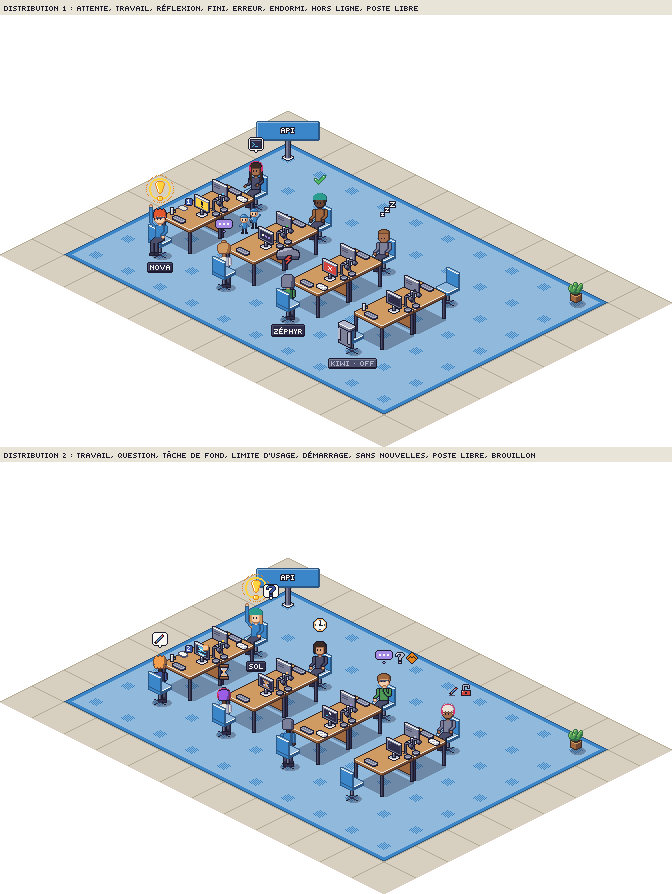
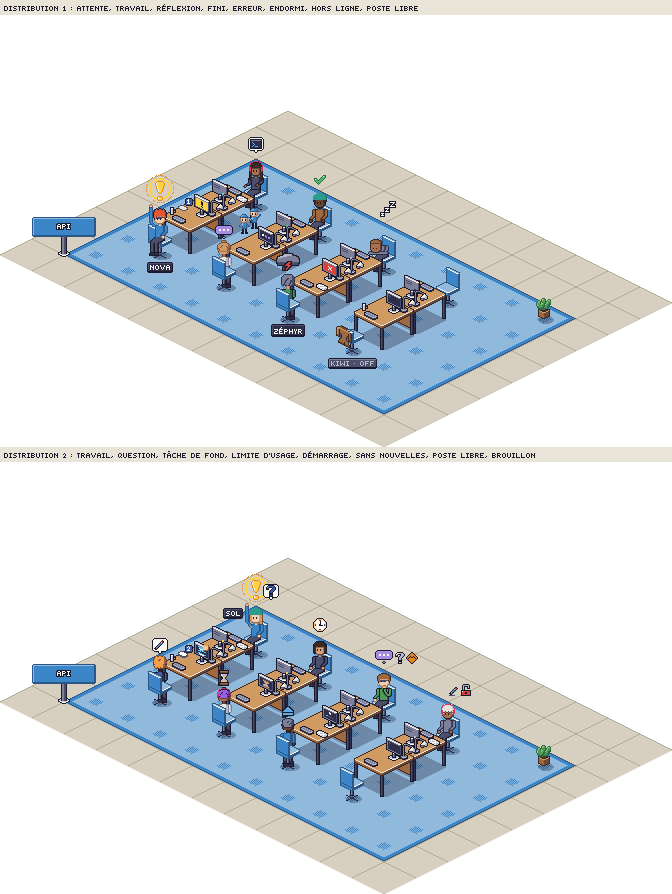
Visual milestone revision: merge fixes
Lamp pool (lots A and D): light.cone is anchored at the desk point plus
FurnitureSprites.lightConeOffset (under the lamp's base, lot A) and still
clipped to the desk-top diamond (lot D). The compositor test checks the new
anchor; lot A's preview harness now renders the compositor output directly.

Golden fingerprints regenerated after all four lots, and the milestone
images in docs/jalon-visuel re-rendered with the documented command.

diff --git a/Core/Sources/PixelCore/World/SceneCompositor.swift b/Core/Sources/PixelCore/World/SceneCompositor.swift
@@ -77,9 +77,10 @@ public enum SceneCompositor {
     static func miniOffsets(rowFacesViewer: Bool) -> [PixelPoint] {
         rowFacesViewer ? [PixelPoint(-12, -6), PixelPoint(-2, -11)] : [PixelPoint(-20, 0), PixelPoint(-10, -8)]
     }
-    /// A lamp's light pool (`light.cone`) has its anchor on the lamp's anchor (the foot of the lamp on the desk top)
-    /// and is clipped to the desk top: the iso diamond of this half-width, `IsoMath.deskTopHeight` over the desk
-    /// tile's centre (the top of `desk` spans x −30…29 around it). It never spills on the carpet.
+    /// A lamp's light pool (`light.cone`) has its anchor on the desk-top point under the lamp's base
+    /// (`FurnitureSprites.lightConeOffset`) and is clipped to the desk top: the iso diamond of this half-width,
+    /// `IsoMath.deskTopHeight` over the desk tile's centre (the top of `desk` spans x −30…29 around it). It never
+    /// spills on the carpet.
     static let deskTopHalfWidth = 30
     /// Centre of a screen's glow: in front of the screen (row A, from the screen's anchor), on the agent's side of
     /// the monitor (row B, from the monitor's anchor).
@@ -695,12 +696,13 @@ struct ScenePlanBuilder {
 
         guard options.night else { return }
         if lampLit, let def = SpriteCatalog.sprite(SpriteKey("light.cone")) {
-            // The pool lies on the desk top around the lamp: its anchor on the lamp's, clipped to the top.
-            let origin = PixelPoint(lamp.x - def.anchor.x, lamp.y - def.anchor.y)
+            // The pool lies on the desk top under the lamp's base, clipped to the top.
+            let pool = Self.plus(point, FurnitureSprites.lightConeOffset(facing: gaze))
+            let origin = PixelPoint(pool.x - def.anchor.x, pool.y - def.anchor.y)
             let deskTop = PixelPoint(point.x, point.y - IsoMath.deskTopHeight)
-            let pool = Self.clipped(def.frames[0], at: origin, toDiamondAt: deskTop,
-                                    halfWidth: SceneCompositor.deskTopHalfWidth)
-            put(name: SpriteKey("light.cone").frameName(0), key: SpriteKey("light.cone"), image: pool, origin: origin,
+            let image = Self.clipped(def.frames[0], at: origin, toDiamondAt: deskTop,
+                                     halfWidth: SceneCompositor.deskTopHalfWidth)
+            put(name: SpriteKey("light.cone").frameName(0), key: SpriteKey("light.cone"), image: image, origin: origin,
                 tile: tile, depth: depth, in: .lights)
         }
         if screen != .off {

diff --git a/Core/Tests/PixelCoreTests/SceneCompositorTests.swift b/Core/Tests/PixelCoreTests/SceneCompositorTests.swift
@@ -583,8 +583,8 @@ enum SceneFixtures {
         #expect(x1.overlays.filter { $0.key == HUDSprites.stateKey(.launching) }.count == 1)
     }
 
-    /// The lamp's pool lies on its desk top, around the lamp: the light's anchor on the lamp's, every pixel inside the
-    /// desk-top diamond, none on the carpet.
+    /// The lamp's pool lies on its desk top, under the lamp's base: the light's anchor at `lightConeOffset` from the
+    /// desk's, every pixel inside the desk-top diamond, none on the carpet.
     @Test func lampPoolStaysOnTheDeskTop() {
         let scene = Showcase.islandCasts()[0]
         let crop = Showcase.islandCrop()
@@ -596,10 +596,16 @@ enum SceneFixtures {
             let tile = cone.tile!
             let lamp = plan.world.first { $0.tile == tile && $0.key?.id == "lamp.desk" }!
             let lampDef = SpriteCatalog.sprite(lamp.key!)!
-            #expect(PixelPoint(cone.origin.x + def.anchor.x, cone.origin.y + def.anchor.y)
-                    == PixelPoint(lamp.origin.x + lampDef.anchor.x, lamp.origin.y + lampDef.anchor.y))
+            let facing = lamp.key!.facing!
             let t = SceneCompositor.imagePoint(of: tile, in: crop)
-            let top = PixelPoint(t.x, t.y + 16 - IsoMath.deskTopHeight)
+            let desk = PixelPoint(t.x, t.y + 16)
+            let lampOffset = FurnitureSprites.lampOffset(facing: facing)
+            #expect(PixelPoint(lamp.origin.x + lampDef.anchor.x, lamp.origin.y + lampDef.anchor.y)
+                    == PixelPoint(desk.x + lampOffset.x, desk.y + lampOffset.y))
+            let poolOffset = FurnitureSprites.lightConeOffset(facing: facing)
+            #expect(PixelPoint(cone.origin.x + def.anchor.x, cone.origin.y + def.anchor.y)
+                    == PixelPoint(desk.x + poolOffset.x, desk.y + poolOffset.y))
+            let top = PixelPoint(desk.x, desk.y - IsoMath.deskTopHeight)
             var inside = 0
             for y in 0..<cone.image.height {
                 for x in 0..<cone.image.width where cone.image[x, y].a != 0 {

diff --git a/Core/Tests/PixelCoreTests/FurnitureSpriteTests.swift b/Core/Tests/PixelCoreTests/FurnitureSpriteTests.swift
@@ -278,25 +278,9 @@ import Testing
         }
     }
 
-    /// The island rendered by the compositor, its lamp pools moved to `lightConeOffset` from each lit desk.
+    /// The island rendered by the compositor, which places the lamp pools at `lightConeOffset` from each lit desk.
     static func island(_ scene: SceneInput, night: Bool) -> PixelImage {
-        var plan = SceneCompositor.plan(scene, options: RenderOptions(night: night, crop: Showcase.islandCrop()))
-        guard night, let cone = SpriteCatalog.sprite(SpriteKey("light.cone")) else { return SceneCompositor.rasterize(plan) }
-        let lamps = plan.world.filter { $0.key?.id == "lamp.desk" && $0.key?.variant == "on" }
-        var lights = plan.lights.filter { $0.key != SpriteKey("light.cone") }
-        for lamp in lamps {
-            let facing = lamp.key!.facing!
-            let def = DecorSpriteChecks.byKey(Self.items)[lamp.key!]!
-            let anchor = PixelPoint(lamp.origin.x + def.anchor.x, lamp.origin.y + def.anchor.y)
-            let desk = PixelPoint(anchor.x - FurnitureSprites.lampOffset(facing: facing).x,
-                                  anchor.y - FurnitureSprites.lampOffset(facing: facing).y)
-            let at = PixelPoint(desk.x + FurnitureSprites.lightConeOffset(facing: facing).x - cone.anchor.x,
-                                desk.y + FurnitureSprites.lightConeOffset(facing: facing).y - cone.anchor.y)
-            lights.append(ScenePlacement(name: "light.cone", key: cone.key, image: cone.frames[0], origin: at,
-                                         tile: lamp.tile, depth: lamp.depth, sequence: lamp.sequence))
-        }
-        plan.lights = lights
-        return SceneCompositor.rasterize(plan)
+        SceneCompositor.render(scene, options: RenderOptions(night: night, crop: Showcase.islandCrop()))
     }
 
     /// Each facing: the lamp off and on over a desk top, then on at night with its pool (preview only).
